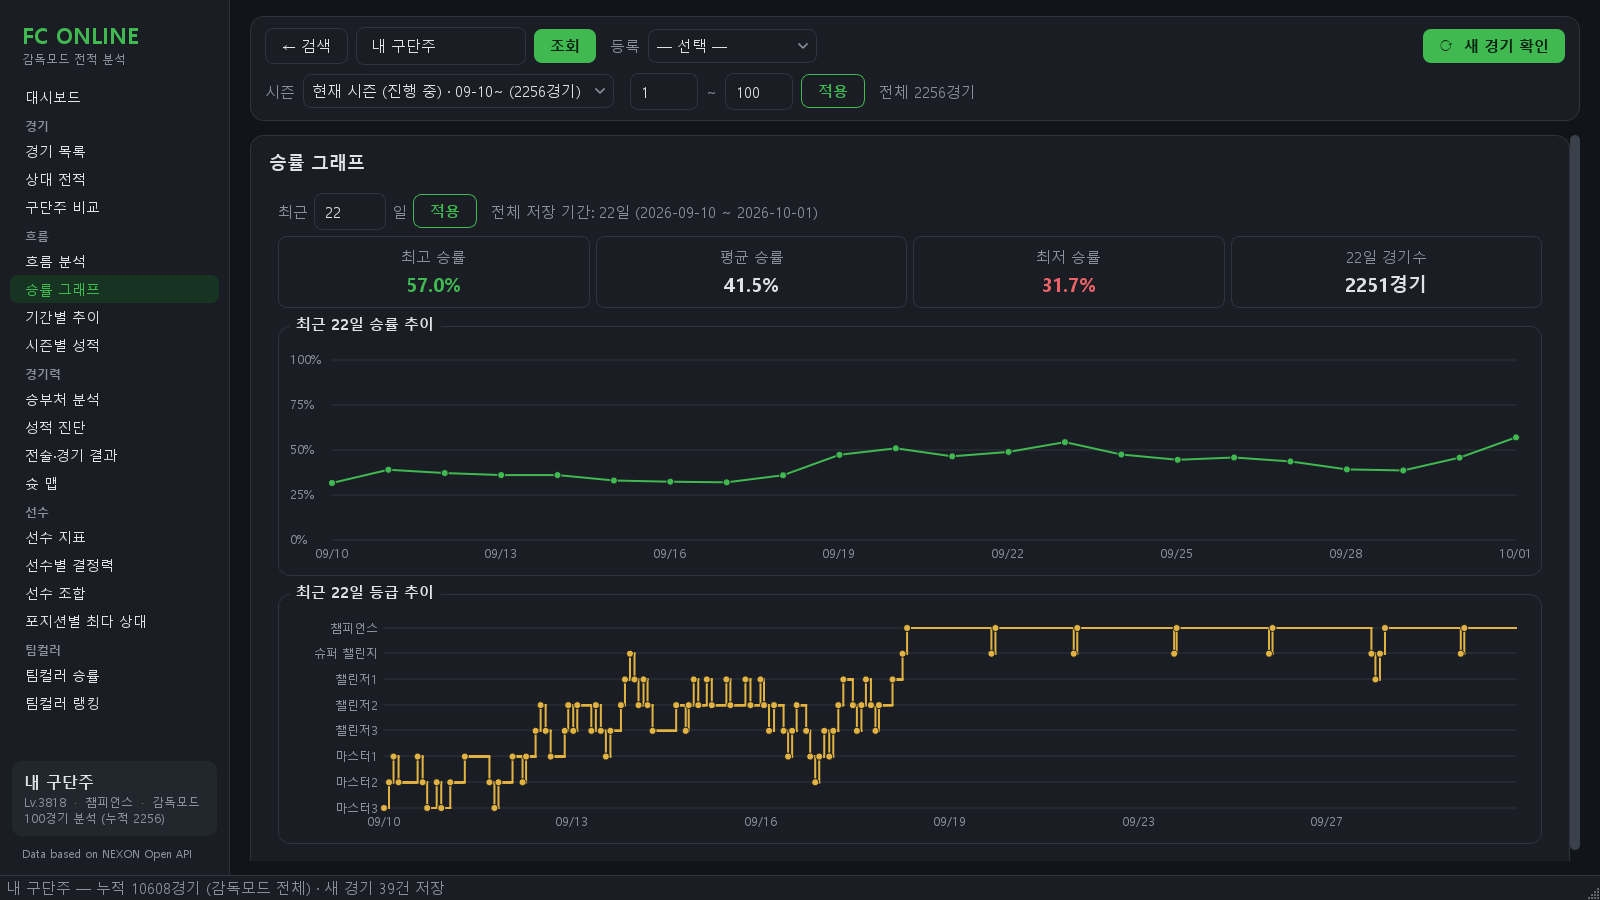
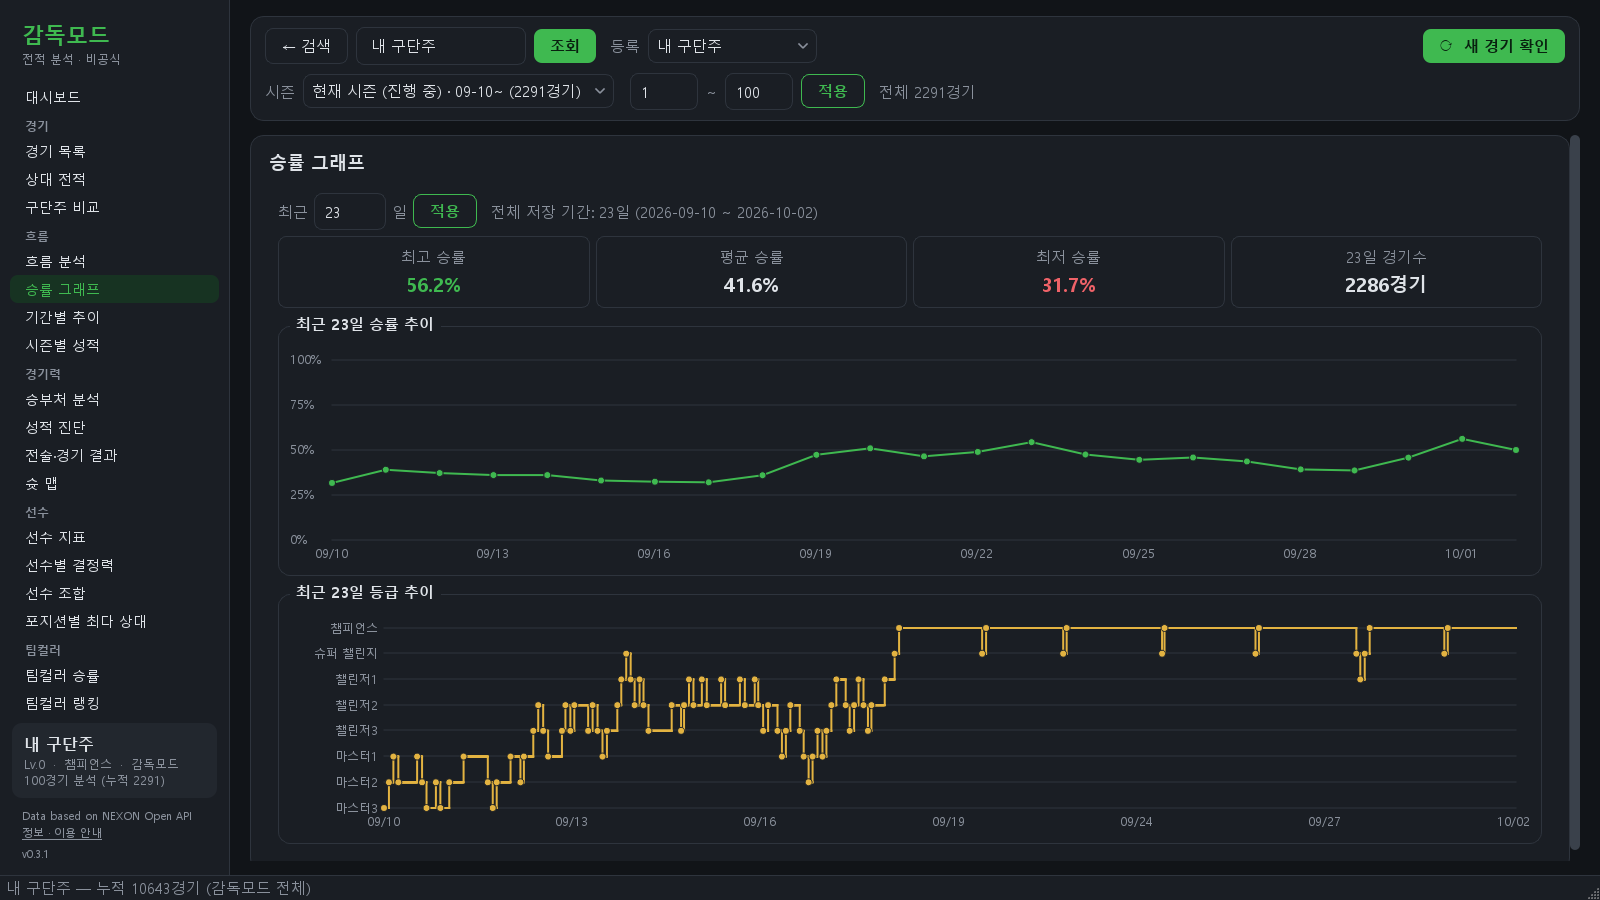
README 스크린샷을 새 이름·화면으로 다시 찍고 팀컬러 승률을 한 장 더한다
옛 스크린샷 7장의 사이드바에 "FC ONLINE" 이 남아 있었다(앱 화면에서는 v0.3.1 에서
상표를 뺐다). 공개 저장소 첫 화면이라 v0.3.1 공개 전에 바꾼다.

창을 띄우지 않고(offscreen) DB 의 실데이터 10,643경기로 찍었다. 넥슨 API·웹 요청 없음.
- 닉네임은 화면에 넣기 전 메모리에서 익명화(나 1 · 상대 6,552). 팀컬러 캐시도 익명 이름으로 옮겼다.
- 랭커 카드(순위·구단가치)는 비웠다 — 공개 랭킹에서 계정을 역추적할 수 있다. 레벨도 0.
- 장마다 찍기 전 보이는 글자 전부를 실제 닉네임 6,561개와 대조했다. 검사가 도는지는
  실제 닉네임 하나를 일부러 심어 잡히는 것으로 확인했다.
  처음엔 23개가 걸렸다 — 검색 화면의 최근 검색 버튼 5개(찍지 않는 화면)·펼치지 않은
  콤보 항목 1개, 나머지는 닉네임을 "감독모드"·"득실"·팀 이름처럼 지은 사람과의 우연한
  겹침이었다. 보이는 위젯만 보고, 앱 고정 문구·선수·팀컬러·등급 이름과 겹치는 건 따로 세게
  고쳤다(칸 전체가 닉네임이면 여전히 실패).
- 그림으로 그린 글자(그래프 라벨)는 위 검사에 안 잡히므로 8장을 하나씩 열어 봤다.

diff --git a/README.md b/README.md
@@ -41,7 +41,8 @@ v0.3.0 까지의 이름은 "피파 전적관리" — 저장소·데이터 폴더
 어두운 테마(`theme.MODE` 로 밝은 테마도 고를 수 있다). 닉네임을 검색하면 **왼쪽 메뉴 + 대시보드**로 넘어가고, 메뉴(경기·흐름·경기력·선수·팀컬러)
 에서 상세 화면으로 들어간다. 시즌·표시 범위·새 경기 확인은 위쪽 바에 고정이라 어느 화면에서든 같다.
 
-> 스크린샷은 실데이터로 찍되 닉네임은 메모리에서만 익명화했다(내 구단주 · 상대1…).
+> 스크린샷은 실데이터로 찍되 닉네임은 메모리에서만 익명화했다(내 구단주 · 상대1…). 랭커 카드(순위·구단가치)는
+> 공개 랭킹에서 계정을 역추적할 수 있어 비웠다. 찍기 전 화면 글자 전부를 실제 닉네임 6,561개와 대조해 0건을 확인했다.
 
 **대시보드** — 지표 4개 · 랭커 카드 · 승률 흐름 · 나 vs 상대 레이더 · 승부처 · 15분 득실 · 흐름 분석 · 시간대 · 자주 만난 상대
 ![대시보드](docs/screenshots/dashboard.png)
@@ -51,6 +52,7 @@ v0.3.0 까지의 이름은 "피파 전적관리" — 저장소·데이터 폴더
 | **선수 지표** — 포지션별 출전·평점·공수 지표(공식 미제공 값 역산)<br>![선수 지표](docs/screenshots/players.png) | **슛 맵** — 슛 좌표를 하프 피치에 시각화(골/유효슛/빗나감)<br>![슛 맵](docs/screenshots/shotmap.png) |
 | **전술·경기 결과** — 상대 포메이션별 승률, 득·실점 유형<br>![전술·경기 결과](docs/screenshots/tactics.png) | **승률 그래프** — 기간별 승률·등급(디비전) 계단 그래프<br>![승률 그래프](docs/screenshots/trend.png) |
 | **승부처 분석** — 선제골 승률, 시간 구간별 득실, 시각대별 승률<br>![승부처 분석](docs/screenshots/clutch.png) | **시즌별 성적** — 감독모드 랭킹 시즌별 전적·승률·평균 득실(진행 중 시즌 포함)<br>![시즌별 성적](docs/screenshots/seasons.png) |
+| **팀컬러 승률** — 상대 팀컬러별 내 승률(시즌 전체 · 반영된 상대 수 표시)<br>![팀컬러 승률](docs/screenshots/teamcolor.png) | |
 
 ## 받아서 쓰기 (exe)
 
